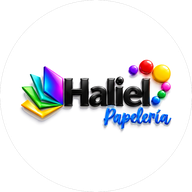
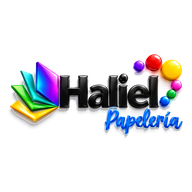
Intro con pausa final de 1 s y arranque sin el círculo viejo
- El logo final de la intro se queda 1 segundo (antes 3).
- Pantalla de carga con el logo nuevo, sin círculo (con fondo blanco en modo oscuro).
- Íconos de la app instalada sin círculo (Android los usa en la pantalla de
  arranque), color de arranque igual al de la intro e ícono propio para iPhone.

Claude-Session: https://claude.ai/code/session_016LBg5J7rfpE5S1ytz45pCv

Changed region(s): [[0.0312, 0.2812, 0.9688, 0.7188]]

diff --git a/index.html b/index.html
@@ -5,14 +5,14 @@
 <meta http-equiv="Cache-Control" content="no-cache, no-store, must-revalidate"/>
 <meta http-equiv="Pragma" content="no-cache"/>
 <meta http-equiv="Expires" content="0"/>
-<meta name="haliel-version" content="2026.10.27.2"/>
+<meta name="haliel-version" content="2026.10.27.3"/>
 <meta name="viewport" content="width=device-width, initial-scale=1.0"/>
 <meta name="theme-color" content="#1B1740"/>
 <meta name="color-scheme" content="light dark"/>
 <meta name="description" content="Haliel Papelería — Sistema administrativo para gestión de ventas, caja, clientes, streaming y más. Bucaramanga, Colombia."/>
 <meta name="robots" content="index, follow, max-snippet:160"/>
 <link rel="icon" type="image/png" sizes="32x32" href="https://csantiago001.github.io/haliel/logo-redon.png?v=20261027"/>
-<link rel="icon" type="image/png" sizes="192x192" href="https://csantiago001.github.io/haliel/icono-192.png?v=20261027"/>
+<link rel="icon" type="image/png" sizes="192x192" href="https://csantiago001.github.io/haliel/icono-192.png?v=20261027b"/>
 <link rel="shortcut icon" href="https://csantiago001.github.io/haliel/logo-redon.png?v=20261027"/>
 <title>Haliel Papelería | Sistema Administrativo</title>
 
@@ -29,7 +29,7 @@
 <meta property="og:image" content="https://csantiago001.github.io/haliel/logo-redon.png?v=20261027"/>
 
 <link rel="manifest" href="manifest.json"/>
-<link rel="apple-touch-icon" href="icono-192.png?v=20261027"/>
+<link rel="apple-touch-icon" href="icono-apple-180.png?v=20261027"/>
 
 <link rel="preconnect" href="https://fonts.googleapis.com"/>
 <link rel="preconnect" href="https://fonts.gstatic.com" crossorigin/>
@@ -472,7 +472,8 @@
   #splash-screen.hide { opacity: 0; visibility: hidden; }
   #splash-screen > div:not(#splash-bar) { color: var(--text) !important; font-family: var(--font-display) !important; }
   #splash-screen > div:nth-of-type(2) { color: var(--text-muted) !important; font-family: var(--font-body) !important; text-transform: none !important; letter-spacing: 0 !important; font-size: 0.85rem !important; }
-  #splash-logo { width: 112px; height: 112px; border-radius: 50%; object-fit: contain; animation: splashPulse 1.6s ease-in-out infinite; box-shadow: 0 18px 40px -18px rgba(27,23,64,0.45); }
+  #splash-logo { width: 220px; height: auto; object-fit: contain; animation: splashPulse 1.6s ease-in-out infinite; }
+  html.dark #splash-logo { background: #fff; border-radius: 18px; padding: 10px 14px; box-sizing: content-box; }
   @keyframes splashPulse { 0%,100% { transform: scale(1); } 50% { transform: scale(1.04); } }
   #splash-bar { width: 180px; height: 4px; background: var(--card-border); border-radius: 99px; margin-top: 1.75rem; overflow: hidden; }
   #splash-bar-fill { height: 100%; background: var(--dots); border-radius: 99px; animation: splashLoad 1.6s ease-in-out forwards; }
@@ -598,7 +599,7 @@
     .btn-primary, .btn-secondary { font-size: 0.82rem !important; padding: 0.6rem 0.875rem !important; }
     .premium-table { font-size: 0.78rem !important; }
     .login-card { padding: 1.4rem 1rem; border-radius: 18px; }
-    #splash-logo { width: 90px; height: 90px; }
+    #splash-logo { width: 190px; height: auto; }
     #st-sus-all-kpis { grid-template-columns: 1fr 1fr !important; }
   }
   @media (pointer: coarse) {
@@ -1456,7 +1457,7 @@
   };
   window.terminarIntro = terminar;
   // Al terminar la animación, el logo se queda quieto unos segundos más antes de entrar a la página
-  const PAUSA_FINAL = 3000;
+  const PAUSA_FINAL = 1000;
   v.addEventListener('ended', () => setTimeout(terminar, PAUSA_FINAL));
   // Si un formato no sirve el navegador prueba el siguiente; solo se omite si fallan todos
   const fuentes = v.querySelectorAll('source');
@@ -1478,7 +1479,7 @@
 })();
 </script>
 <div id="splash-screen">
-  <img src="logo-redon.png?v=20261027" id="splash-logo" alt="Haliel"/>
+  <img src="logo.png?v=20261027" id="splash-logo" alt="Haliel Papelería"/>
   <div style="font-weight:700;font-size:1.25rem;margin-top:1.25rem;letter-spacing:-0.02em;">Haliel Papelería</div>
   <div style="margin-top:0.2rem;">Preparando tu espacio de trabajo…</div>
   <div id="splash-bar"><div id="splash-bar-fill"></div></div>
@@ -4374,7 +4375,7 @@
 // · La página revisa sola si hay una versión nueva y se actualiza.
 // · Las preferencias y la configuración del sistema viven en Supabase.
 // =====================================================================
-const APP_VERSION = '2026.10.27.2';   // ⬅ se cambia en cada publicación (tools/nueva-version.py)
+const APP_VERSION = '2026.10.27.3';   // ⬅ se cambia en cada publicación (tools/nueva-version.py)
 
 // ── 1. Actualización automática ──
 let _versionNueva = null, _verEspera = null, _verRevisando = false;

diff --git a/sw.js b/sw.js
@@ -1,6 +1,6 @@
 // sw.js — Haliel PWA
 // La versión la cambia tools/nueva-version.py en cada publicación (junto con index.html y version.json)
-const VERSION = 'haliel-2026.10.27.2';
+const VERSION = 'haliel-2026.10.27.3';
 
 // Librerías externas con versión fija (nunca cambian): se guardan para que la app cargue rápido.
 // El código de la app (index.html) SIEMPRE se pide a internet sin copias; la copia guardada
